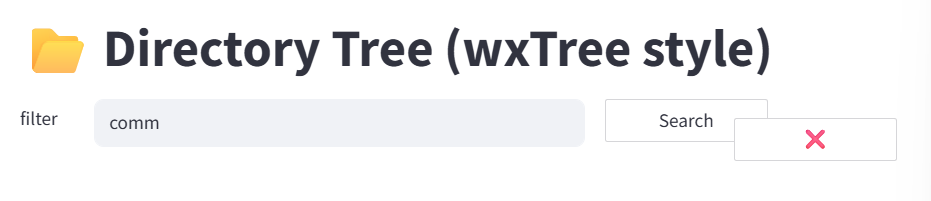
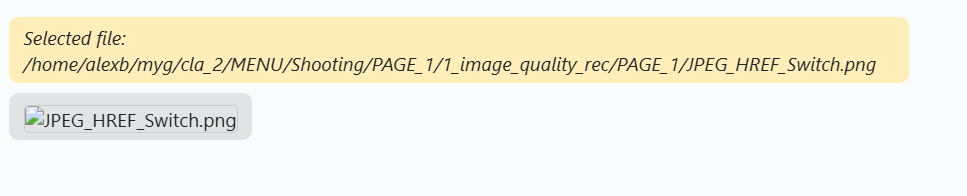
imageyhum

diff --git a/tree-view-app/src/Chat.tsx b/tree-view-app/src/Chat.tsx
@@ -61,26 +61,46 @@ const Chat: React.FC<ChatProps> = ({ messages, onSendMessage }) => {
               textAlign: msg.from === "user" ? "right" : "left",
             }}
           >
-            <span
-              style={{
-                display: "inline-block",
-                background:
-                  msg.from === "user"
-                    ? "#cce5ff"
-                    : msg.from === "log"
-                    ? "#ffeeba"
-                    : "#e2e3e5",
-                color: "#222",
-                borderRadius: 8,
-                padding: "6px 12px",
-                maxWidth: "70%",
-                wordBreak: "break-word",
-                fontStyle: msg.from === "log" ? "italic" : undefined,
-                whiteSpace: "pre-line",
-              }}
-            >
-              {msg.text}
-            </span>
+            {(msg.from === "log" || msg.from === "bot") && /<img\s/i.test(msg.text) ? (
+              <span
+                style={{
+                  display: "inline-block",
+                  background:
+                    msg.from === "log"
+                      ? "#ffeeba"
+                      : "#e2e3e5",
+                  color: "#222",
+                  borderRadius: 8,
+                  padding: "6px 12px",
+                  maxWidth: "70%",
+                  wordBreak: "break-word",
+                  fontStyle: msg.from === "log" ? "italic" : undefined,
+                  whiteSpace: "pre-line",
+                }}
+                dangerouslySetInnerHTML={{ __html: msg.text }}
+              />
+            ) : (
+              <span
+                style={{
+                  display: "inline-block",
+                  background:
+                    msg.from === "user"
+                      ? "#cce5ff"
+                      : msg.from === "log"
+                      ? "#ffeeba"
+                      : "#e2e3e5",
+                  color: "#222",
+                  borderRadius: 8,
+                  padding: "6px 12px",
+                  maxWidth: "70%",
+                  wordBreak: "break-word",
+                  fontStyle: msg.from === "log" ? "italic" : undefined,
+                  whiteSpace: "pre-line",
+                }}
+              >
+                {msg.text}
+              </span>
+            )}
           </div>
         ))}
       </div>
@@ -98,7 +118,7 @@ const Chat: React.FC<ChatProps> = ({ messages, onSendMessage }) => {
             border: "1px solid #bbb",
             marginRight: 8,
             resize: "vertical",
-            minHeight: 64,
+            minHeight: 164,
             maxHeight: 200,
             lineHeight: 1.4,
           }}

diff --git a/tree-view-app/src/App.tsx b/tree-view-app/src/App.tsx
@@ -44,10 +44,24 @@ function App() {
         ];
       }
       // Select message
-      return [
+      const newMessages: ChatMessage[] = [
         ...prev,
-        { text: `Selected file: ${node.path}`, from: "log" },
+        { text: `Selected file: ${node.path}`, from: "log" as const },
       ];
+      if (/\.(png|jpe?g)$/i.test(node.path)) {
+        // Use the actual file path for the image source
+        let imgSrc;
+        if (node.path.includes('/MENU')) {
+          imgSrc = `/MENU${node.path.split('/MENU')[1]}`;
+        } else {
+          imgSrc = `/${node.path.replace(/^(\.\/|\/)/, '')}`;
+        }
+        newMessages.push({
+          text: `<img src="${imgSrc}" alt="${node.name}" style="width:64px;max-width:100%;border-radius:4px;border:1px solid #ccc;margin-top:4px;" />`,
+          from: "bot" as const
+        });
+      }
+      return newMessages;
     });
   };
 
